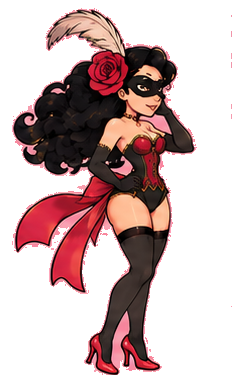
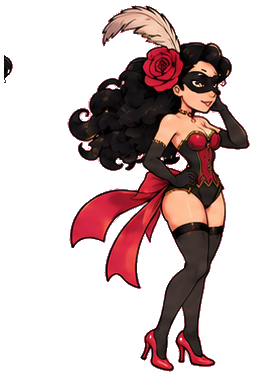
fix: re-crop scarlet idle, add up/down nav, sort viewer entities
- Re-crop scarlet_vale_idle with wider bounds, centered + bottom-aligned
- Crop balthazar_idle (8 frames) from balthazar_sheet_2
- Add hud/ folder with select screens, cover, logo as single-frame entities
- Sort viewer entities alphabetically within each label section
- Add ArrowUp/ArrowDown to navigate between animations in sidebar
- Regenerate both viewers

diff --git a/.squid-os/sprite-gen/petal-panic.viewer.html b/.squid-os/sprite-gen/petal-panic.viewer.html
@@ -53,11 +53,11 @@
       <input type="color" id="bg" value="#000000">
       <span id="bgval">#000000</span>
     </div>
-    <div id="hint">click an entity &middot; &#8722;/&#43; change speed &middot; space play/pause &middot; &#8592;/&#8594; step frame (paused)</div>
+    <div id="hint">click an entity &middot; &#8593;/&#8595; next/prev animation &middot; &#8722;/&#43; speed &middot; space play/pause &middot; &#8592;/&#8594; step frame (paused)</div>
   </div>
 </div>
 <script>
-const MANIFEST = {"labels": [{"name": "boss", "entities": [{"name": "overgrown_elephant_charge", "frames": ["../../panic-petal/assets/boss/overgrown_elephant_charge_f1.png", "../../panic-petal/assets/boss/overgrown_elephant_charge_f2.png", "../../panic-petal/assets/boss/overgrown_elephant_charge_f3.png", "../../panic-petal/assets/boss/overgrown_elephant_charge_f4.png", "../../panic-petal/assets/boss/overgrown_elephant_charge_f5.png"]}, {"name": "overgrown_elephant_stomp", "frames": ["../../panic-petal/assets/boss/overgrown_elephant_stomp_f1.png", "../../panic-petal/assets/boss/overgrown_elephant_stomp_f2.png", "../../panic-petal/assets/boss/overgrown_elephant_stomp_f3.png", "../../panic-petal/assets/boss/overgrown_elephant_stomp_f4.png", "../../panic-petal/assets/boss/overgrown_elephant_stomp_f5.png"]}, {"name": "overgrown_elephant_trunk_blast", "frames": ["../../panic-petal/assets/boss/overgrown_elephant_trunk_blast_f1.png", "../../panic-petal/assets/boss/overgrown_elephant_trunk_blast_f2.png", "../../panic-petal/assets/boss/overgrown_elephant_trunk_blast_f3.png", "../../panic-petal/assets/boss/overgrown_elephant_trunk_blast_f4.png", "../../panic-petal/assets/boss/overgrown_elephant_trunk_blast_f5.png"]}, {"name": "overgrown_elephant_death", "frames": ["../../panic-petal/assets/boss/overgrown_elephant_death_f1.png", "../../panic-petal/assets/boss/overgrown_elephant_death_f2.png", "../../panic-petal/assets/boss/overgrown_elephant_death_f3.png", "../../panic-petal/assets/boss/overgrown_elephant_death_f4.png", "../../panic-petal/assets/boss/overgrown_elephant_death_f5.png"]}]}, {"name": "enemies", "entities": [{"name": "jester_run", "frames": ["../../panic-petal/assets/enemies/jester_run_f1.png", "../../panic-petal/assets/enemies/jester_run_f2.png", "../../panic-petal/assets/enemies/jester_run_f3.png", "../../panic-petal/assets/enemies/jester_run_f4.png", "../../panic-petal/assets/enemies/jester_run_f5.png"]}, {"name": "jester_jump", "frames": ["../../panic-petal/assets/enemies/jester_jump_f1.png", "../../panic-petal/assets/enemies/jester_jump_f2.png", "../../panic-petal/assets/enemies/jester_jump_f3.png", "../../panic-petal/assets/enemies/jester_jump_f4.png", "../../panic-petal/assets/enemies/jester_jump_f5.png"]}, {"name": "jester_idle", "frames": ["../../panic-petal/assets/enemies/jester_idle_f1.png", "../../panic-petal/assets/enemies/jester_idle_f2.png", "../../panic-petal/assets/enemies/jester_idle_f3.png", "../../panic-petal/assets/enemies/jester_idle_f4.png", "../../panic-petal/assets/enemies/jester_idle_f5.png"]}, {"name": "jester_whip", "frames": ["../../panic-petal/assets/enemies/jester_whip_f1.png", "../../panic-petal/assets/enemies/jester_whip_f2.png", "../../panic-petal/assets/enemies/jester_whip_f3.png", "../../panic-petal/assets/enemies/jester_whip_f4.png", "../../panic-petal/assets/enemies/jester_whip_f5.png"]}, {"name": "jester_death", "frames": ["../../panic-petal/assets/enemies/jester_death_f1.png", "../../panic-petal/assets/enemies/jester_death_f2.png", "../../panic-petal/assets/enemies/jester_death_f3.png", "../../panic-petal/assets/enemies/jester_death_f4.png", "../../panic-petal/assets/enemies/jester_death_f5.png"]}, {"name": "jackolantern_roll", "frames": ["../../panic-petal/assets/enemies/jackolantern_roll_f1.png", "../../panic-petal/assets/enemies/jackolantern_roll_f2.png", "../../panic-petal/assets/enemies/jackolantern_roll_f3.png", "../../panic-petal/assets/enemies/jackolantern_roll_f4.png", "../../panic-petal/assets/enemies/jackolantern_roll_f5.png"]}, {"name": "jackolantern_launch", "frames": ["../../panic-petal/assets/enemies/jackolantern_launch_f1.png", "../../panic-petal/assets/enemies/jackolantern_launch_f2.png", "../../panic-petal/assets/enemies/jackolantern_launch_f3.png", "../../panic-petal/assets/enemies/jackolantern_launch_f4.png", "../../panic-petal/assets/enemies/jackolantern_launch_f5.png"]}, {"name": "jackolantern_explode", "frames": ["../../panic-petal/assets/enemies/jackolantern_explode_f1.png", "../../panic-petal/assets/enemies/jackolantern_explode_f2.png", "../../panic-petal/assets/enemies/jackolantern_explode_f3.png", "../../panic-petal/assets/enemies/jackolantern_explode_f4.png", "../../panic-petal/assets/enemies/jackolantern_explode_f5.png"]}, {"name": "vine_hound_run", "frames": ["../../panic-petal/assets/enemies/vine_hound_run_f1.png", "../../panic-petal/assets/enemies/vine_hound_run_f2.png", "../../panic-petal/assets/enemies/vine_hound_run_f3.png", "../../panic-petal/assets/enemies/vine_hound_run_f4.png", "../../panic-petal/assets/enemies/vine_hound_run_f5.png"]}, {"name": "vine_hound_attack", "frames": ["../../panic-petal/assets/enemies/vine_hound_attack_f1.png", "../../panic-petal/assets/enemies/vine_hound_attack_f2.png", "../../panic-petal/assets/enemies/vine_hound_attack_f3.png", "../../panic-petal/assets/enemies/vine_hound_attack_f4.png", "../../panic-petal/assets/enemies/vine_hound_attack_f5.png"]}, {"name": "vine_hound_death", "frames": ["../../panic-petal/assets/enemies/vine_hound_death_f1.png", "../../panic-petal/assets/enemies/vine_hound_death_f2.png", "../../panic-petal/assets/enemies/vine_hound_death_f3.png", "../../panic-petal/assets/enemies/vine_hound_death_f4.png", "../../panic-petal/assets/enemies/vine_hound_death_f5.png"]}, {"name": "boris_loon_fly", "frames": ["../../panic-petal/assets/enemies/boris_loon_fly_f1.png", "../../panic-petal/assets/enemies/boris_loon_fly_f2.png", "../../panic-petal/assets/enemies/boris_loon_fly_f3.png", "../../panic-petal/assets/enemies/boris_loon_fly_f4.png", "../../panic-petal/assets/enemies/boris_loon_fly_f5.png"]}, {"name": "boris_loon_attack", "frames": ["../../panic-petal/assets/enemies/boris_loon_attack_f1.png", "../../panic-petal/assets/enemies/boris_loon_attack_f2.png", "../../panic-petal/assets/enemies/boris_loon_attack_f3.png", "../../panic-petal/assets/enemies/boris_loon_attack_f4.png", "../../panic-petal/assets/enemies/boris_loon_attack_f5.png"]}, {"name": "boris_loon_death", "frames": ["../../panic-petal/assets/enemies/boris_loon_death_f1.png", "../../panic-petal/assets/enemies/boris_loon_death_f2.png", "../../panic-petal/assets/enemies/boris_loon_death_f3.png", "../../panic-petal/assets/enemies/boris_loon_death_f4.png", "../../panic-petal/assets/enemies/boris_loon_death_f5.png"]}, {"name": "boris_loon_baby_fly_1", "frames": ["../../panic-petal/assets/enemies/boris_loon_baby_fly_1_f1.png", "../../panic-petal/assets/enemies/boris_loon_baby_fly_1_f2.png", "../../panic-petal/assets/enemies/boris_loon_baby_fly_1_f3.png", "../../panic-petal/assets/enemies/boris_loon_baby_fly_1_f4.png", "../../panic-petal/assets/enemies/boris_loon_baby_fly_1_f5.png"]}, {"name": "boris_loon_baby_fly_2", "frames": ["../../panic-petal/assets/enemies/boris_loon_baby_fly_2_f1.png", "../../panic-petal/assets/enemies/boris_loon_baby_fly_2_f2.png", "../../panic-petal/assets/enemies/boris_loon_baby_fly_2_f3.png", "../../panic-petal/assets/enemies/boris_loon_baby_fly_2_f4.png", "../../panic-petal/assets/enemies/boris_loon_baby_fly_2_f5.png"]}, {"name": "boris_loon_baby_fly_3", "frames": ["../../panic-petal/assets/enemies/boris_loon_baby_fly_3_f1.png", "../../panic-petal/assets/enemies/boris_loon_baby_fly_3_f2.png", "../../panic-petal/assets/enemies/boris_loon_baby_fly_3_f3.png", "../../panic-petal/assets/enemies/boris_loon_baby_fly_3_f4.png", "../../panic-petal/assets/enemies/boris_loon_baby_fly_3_f5.png"]}, {"name": "violetta_marionetta_walk", "frames": ["../../panic-petal/assets/enemies/violetta_marionetta_walk_f1.png", "../../panic-petal/assets/enemies/violetta_marionetta_walk_f2.png", "../../panic-petal/assets/enemies/violetta_marionetta_walk_f3.png", "../../panic-petal/assets/enemies/violetta_marionetta_walk_f4.png", "../../panic-petal/assets/enemies/violetta_marionetta_walk_f5.png"]}, {"name": "violetta_marionetta_attack", "frames": ["../../panic-petal/assets/enemies/violetta_marionetta_attack_f1.png", "../../panic-petal/assets/enemies/violetta_marionetta_attack_f2.png", "../../panic-petal/assets/enemies/violetta_marionetta_attack_f3.png", "../../panic-petal/assets/enemies/violetta_marionetta_attack_f4.png", "../../panic-petal/assets/enemies/violetta_marionetta_attack_f5.png"]}, {"name": "violetta_marionetta_death", "frames": ["../../panic-petal/assets/enemies/violetta_marionetta_death_f1.png", "../../panic-petal/assets/enemies/violetta_marionetta_death_f2.png", "../../panic-petal/assets/enemies/violetta_marionetta_death_f3.png", "../../panic-petal/assets/enemies/violetta_marionetta_death_f4.png", "../../panic-petal/assets/enemies/violetta_marionetta_death_f5.png"]}]}, {"name": "heroes", "entities": [{"name": "scarlet_vale_run", "frames": ["../../panic-petal/assets/heroes/scarlet_vale_run_f1.png", "../../panic-petal/assets/heroes/scarlet_vale_run_f2.png", "../../panic-petal/assets/heroes/scarlet_vale_run_f3.png", "../../panic-petal/assets/heroes/scarlet_vale_run_f4.png", "../../panic-petal/assets/heroes/scarlet_vale_run_f5.png"]}, {"name": "scarlet_vale_jump", "frames": ["../../panic-petal/assets/heroes/scarlet_vale_jump_f1.png", "../../panic-petal/assets/heroes/scarlet_vale_jump_f2.png", "../../panic-petal/assets/heroes/scarlet_vale_jump_f3.png", "../../panic-petal/assets/heroes/scarlet_vale_jump_f4.png", "../../panic-petal/assets/heroes/scarlet_vale_jump_f5.png"]}, {"name": "scarlet_vale_attack", "frames": ["../../panic-petal/assets/heroes/scarlet_vale_attack_f1.png", "../../panic-petal/assets/heroes/scarlet_vale_attack_f2.png", "../../panic-petal/assets/heroes/scarlet_vale_attack_f3.png", "../../panic-petal/assets/heroes/scarlet_vale_attack_f4.png", "../../panic-petal/assets/heroes/scarlet_vale_attack_f5.png"]}, {"name": "balthazar_run", "frames": ["../../panic-petal/assets/heroes/balthazar_run_f1.png", "../../panic-petal/assets/heroes/balthazar_run_f2.png", "../../panic-petal/assets/heroes/balthazar_run_f3.png", "../../panic-petal/assets/heroes/balthazar_run_f4.png", "../../panic-petal/assets/heroes/balthazar_run_f5.png"]}, {"name": "balthazar_jump", "frames": ["../../panic-petal/assets/heroes/balthazar_jump_f1.png", "../../panic-petal/assets/heroes/balthazar_jump_f2.png", "../../panic-petal/assets/heroes/balthazar_jump_f3.png", "../../panic-petal/assets/heroes/balthazar_jump_f4.png", "../../panic-petal/assets/heroes/balthazar_jump_f5.png"]}, {"name": "balthazar_attack", "frames": ["../../panic-petal/assets/heroes/balthazar_attack_f1.png", "../../panic-petal/assets/heroes/balthazar_attack_f2.png", "../../panic-petal/assets/heroes/balthazar_attack_f3.png", "../../panic-petal/assets/heroes/balthazar_attack_f4.png", "../../panic-petal/assets/heroes/balthazar_attack_f5.png"]}, {"name": "scarlet_vale_idle", "frames": ["../../panic-petal/assets/heroes/scarlet_vale_idle_f1.png", "../../panic-petal/assets/heroes/scarlet_vale_idle_f2.png", "../../panic-petal/assets/heroes/scarlet_vale_idle_f3.png", "../../panic-petal/assets/heroes/scarlet_vale_idle_f4.png", "../../panic-petal/assets/heroes/scarlet_vale_idle_f5.png", "../../panic-petal/assets/heroes/scarlet_vale_idle_f6.png", "../../panic-petal/assets/heroes/scarlet_vale_idle_f7.png", "../../panic-petal/assets/heroes/scarlet_vale_idle_f8.png"]}, {"name": "balthazar_idle", "frames": ["../../panic-petal/assets/heroes/balthazar_idle_f1.png", "../../panic-petal/assets/heroes/balthazar_idle_f2.png", "../../panic-petal/assets/heroes/balthazar_idle_f3.png", "../../panic-petal/assets/heroes/balthazar_idle_f4.png", "../../panic-petal/assets/heroes/balthazar_idle_f5.png", "../../panic-petal/assets/heroes/balthazar_idle_f6.png", "../../panic-petal/assets/heroes/balthazar_idle_f7.png", "../../panic-petal/assets/heroes/balthazar_idle_f8.png"]}]}, {"name": "hud", "entities": [{"name": "select_balthazar_idle", "frames": ["../../panic-petal/assets/hud/select_balthazar_f1.png"]}, {"name": "select_none_idle", "frames": ["../../panic-petal/assets/hud/select_none_f1.png"]}, {"name": "select_scarlet_vale_idle", "frames": ["../../panic-petal/assets/hud/select_scarlet_vale_f1.png"]}, {"name": "cover_idle", "frames": ["../../panic-petal/assets/hud/cover_f1.png"]}, {"name": "logo_idle", "frames": ["../../panic-petal/assets/hud/logo_f1.png"]}]}]};   // {labels:[{name, entities:[{name, frames:["path",...]}]}], bg:"#hex"}
+const MANIFEST = {"labels": [{"name": "boss", "entities": [{"name": "overgrown_elephant_charge", "frames": ["../../panic-petal/assets/boss/overgrown_elephant_charge_f1.png", "../../panic-petal/assets/boss/overgrown_elephant_charge_f2.png", "../../panic-petal/assets/boss/overgrown_elephant_charge_f3.png", "../../panic-petal/assets/boss/overgrown_elephant_charge_f4.png", "../../panic-petal/assets/boss/overgrown_elephant_charge_f5.png"]}, {"name": "overgrown_elephant_death", "frames": ["../../panic-petal/assets/boss/overgrown_elephant_death_f1.png", "../../panic-petal/assets/boss/overgrown_elephant_death_f2.png", "../../panic-petal/assets/boss/overgrown_elephant_death_f3.png", "../../panic-petal/assets/boss/overgrown_elephant_death_f4.png", "../../panic-petal/assets/boss/overgrown_elephant_death_f5.png"]}, {"name": "overgrown_elephant_stomp", "frames": ["../../panic-petal/assets/boss/overgrown_elephant_stomp_f1.png", "../../panic-petal/assets/boss/overgrown_elephant_stomp_f2.png", "../../panic-petal/assets/boss/overgrown_elephant_stomp_f3.png", "../../panic-petal/assets/boss/overgrown_elephant_stomp_f4.png", "../../panic-petal/assets/boss/overgrown_elephant_stomp_f5.png"]}, {"name": "overgrown_elephant_trunk_blast", "frames": ["../../panic-petal/assets/boss/overgrown_elephant_trunk_blast_f1.png", "../../panic-petal/assets/boss/overgrown_elephant_trunk_blast_f2.png", "../../panic-petal/assets/boss/overgrown_elephant_trunk_blast_f3.png", "../../panic-petal/assets/boss/overgrown_elephant_trunk_blast_f4.png", "../../panic-petal/assets/boss/overgrown_elephant_trunk_blast_f5.png"]}]}, {"name": "enemies", "entities": [{"name": "boris_loon_attack", "frames": ["../../panic-petal/assets/enemies/boris_loon_attack_f1.png", "../../panic-petal/assets/enemies/boris_loon_attack_f2.png", "../../panic-petal/assets/enemies/boris_loon_attack_f3.png", "../../panic-petal/assets/enemies/boris_loon_attack_f4.png", "../../panic-petal/assets/enemies/boris_loon_attack_f5.png"]}, {"name": "boris_loon_baby_fly_1", "frames": ["../../panic-petal/assets/enemies/boris_loon_baby_fly_1_f1.png", "../../panic-petal/assets/enemies/boris_loon_baby_fly_1_f2.png", "../../panic-petal/assets/enemies/boris_loon_baby_fly_1_f3.png", "../../panic-petal/assets/enemies/boris_loon_baby_fly_1_f4.png", "../../panic-petal/assets/enemies/boris_loon_baby_fly_1_f5.png"]}, {"name": "boris_loon_baby_fly_2", "frames": ["../../panic-petal/assets/enemies/boris_loon_baby_fly_2_f1.png", "../../panic-petal/assets/enemies/boris_loon_baby_fly_2_f2.png", "../../panic-petal/assets/enemies/boris_loon_baby_fly_2_f3.png", "../../panic-petal/assets/enemies/boris_loon_baby_fly_2_f4.png", "../../panic-petal/assets/enemies/boris_loon_baby_fly_2_f5.png"]}, {"name": "boris_loon_baby_fly_3", "frames": ["../../panic-petal/assets/enemies/boris_loon_baby_fly_3_f1.png", "../../panic-petal/assets/enemies/boris_loon_baby_fly_3_f2.png", "../../panic-petal/assets/enemies/boris_loon_baby_fly_3_f3.png", "../../panic-petal/assets/enemies/boris_loon_baby_fly_3_f4.png", "../../panic-petal/assets/enemies/boris_loon_baby_fly_3_f5.png"]}, {"name": "boris_loon_death", "frames": ["../../panic-petal/assets/enemies/boris_loon_death_f1.png", "../../panic-petal/assets/enemies/boris_loon_death_f2.png", "../../panic-petal/assets/enemies/boris_loon_death_f3.png", "../../panic-petal/assets/enemies/boris_loon_death_f4.png", "../../panic-petal/assets/enemies/boris_loon_death_f5.png"]}, {"name": "boris_loon_fly", "frames": ["../../panic-petal/assets/enemies/boris_loon_fly_f1.png", "../../panic-petal/assets/enemies/boris_loon_fly_f2.png", "../../panic-petal/assets/enemies/boris_loon_fly_f3.png", "../../panic-petal/assets/enemies/boris_loon_fly_f4.png", "../../panic-petal/assets/enemies/boris_loon_fly_f5.png"]}, {"name": "jackolantern_explode", "frames": ["../../panic-petal/assets/enemies/jackolantern_explode_f1.png", "../../panic-petal/assets/enemies/jackolantern_explode_f2.png", "../../panic-petal/assets/enemies/jackolantern_explode_f3.png", "../../panic-petal/assets/enemies/jackolantern_explode_f4.png", "../../panic-petal/assets/enemies/jackolantern_explode_f5.png"]}, {"name": "jackolantern_launch", "frames": ["../../panic-petal/assets/enemies/jackolantern_launch_f1.png", "../../panic-petal/assets/enemies/jackolantern_launch_f2.png", "../../panic-petal/assets/enemies/jackolantern_launch_f3.png", "../../panic-petal/assets/enemies/jackolantern_launch_f4.png", "../../panic-petal/assets/enemies/jackolantern_launch_f5.png"]}, {"name": "jackolantern_roll", "frames": ["../../panic-petal/assets/enemies/jackolantern_roll_f1.png", "../../panic-petal/assets/enemies/jackolantern_roll_f2.png", "../../panic-petal/assets/enemies/jackolantern_roll_f3.png", "../../panic-petal/assets/enemies/jackolantern_roll_f4.png", "../../panic-petal/assets/enemies/jackolantern_roll_f5.png"]}, {"name": "jester_death", "frames": ["../../panic-petal/assets/enemies/jester_death_f1.png", "../../panic-petal/assets/enemies/jester_death_f2.png", "../../panic-petal/assets/enemies/jester_death_f3.png", "../../panic-petal/assets/enemies/jester_death_f4.png", "../../panic-petal/assets/enemies/jester_death_f5.png"]}, {"name": "jester_idle", "frames": ["../../panic-petal/assets/enemies/jester_idle_f1.png", "../../panic-petal/assets/enemies/jester_idle_f2.png", "../../panic-petal/assets/enemies/jester_idle_f3.png", "../../panic-petal/assets/enemies/jester_idle_f4.png", "../../panic-petal/assets/enemies/jester_idle_f5.png"]}, {"name": "jester_jump", "frames": ["../../panic-petal/assets/enemies/jester_jump_f1.png", "../../panic-petal/assets/enemies/jester_jump_f2.png", "../../panic-petal/assets/enemies/jester_jump_f3.png", "../../panic-petal/assets/enemies/jester_jump_f4.png", "../../panic-petal/assets/enemies/jester_jump_f5.png"]}, {"name": "jester_run", "frames": ["../../panic-petal/assets/enemies/jester_run_f1.png", "../../panic-petal/assets/enemies/jester_run_f2.png", "../../panic-petal/assets/enemies/jester_run_f3.png", "../../panic-petal/assets/enemies/jester_run_f4.png", "../../panic-petal/assets/enemies/jester_run_f5.png"]}, {"name": "jester_whip", "frames": ["../../panic-petal/assets/enemies/jester_whip_f1.png", "../../panic-petal/assets/enemies/jester_whip_f2.png", "../../panic-petal/assets/enemies/jester_whip_f3.png", "../../panic-petal/assets/enemies/jester_whip_f4.png", "../../panic-petal/assets/enemies/jester_whip_f5.png"]}, {"name": "vine_hound_attack", "frames": ["../../panic-petal/assets/enemies/vine_hound_attack_f1.png", "../../panic-petal/assets/enemies/vine_hound_attack_f2.png", "../../panic-petal/assets/enemies/vine_hound_attack_f3.png", "../../panic-petal/assets/enemies/vine_hound_attack_f4.png", "../../panic-petal/assets/enemies/vine_hound_attack_f5.png"]}, {"name": "vine_hound_death", "frames": ["../../panic-petal/assets/enemies/vine_hound_death_f1.png", "../../panic-petal/assets/enemies/vine_hound_death_f2.png", "../../panic-petal/assets/enemies/vine_hound_death_f3.png", "../../panic-petal/assets/enemies/vine_hound_death_f4.png", "../../panic-petal/assets/enemies/vine_hound_death_f5.png"]}, {"name": "vine_hound_run", "frames": ["../../panic-petal/assets/enemies/vine_hound_run_f1.png", "../../panic-petal/assets/enemies/vine_hound_run_f2.png", "../../panic-petal/assets/enemies/vine_hound_run_f3.png", "../../panic-petal/assets/enemies/vine_hound_run_f4.png", "../../panic-petal/assets/enemies/vine_hound_run_f5.png"]}, {"name": "violetta_marionetta_attack", "frames": ["../../panic-petal/assets/enemies/violetta_marionetta_attack_f1.png", "../../panic-petal/assets/enemies/violetta_marionetta_attack_f2.png", "../../panic-petal/assets/enemies/violetta_marionetta_attack_f3.png", "../../panic-petal/assets/enemies/violetta_marionetta_attack_f4.png", "../../panic-petal/assets/enemies/violetta_marionetta_attack_f5.png"]}, {"name": "violetta_marionetta_death", "frames": ["../../panic-petal/assets/enemies/violetta_marionetta_death_f1.png", "../../panic-petal/assets/enemies/violetta_marionetta_death_f2.png", "../../panic-petal/assets/enemies/violetta_marionetta_death_f3.png", "../../panic-petal/assets/enemies/violetta_marionetta_death_f4.png", "../../panic-petal/assets/enemies/violetta_marionetta_death_f5.png"]}, {"name": "violetta_marionetta_walk", "frames": ["../../panic-petal/assets/enemies/violetta_marionetta_walk_f1.png", "../../panic-petal/assets/enemies/violetta_marionetta_walk_f2.png", "../../panic-petal/assets/enemies/violetta_marionetta_walk_f3.png", "../../panic-petal/assets/enemies/violetta_marionetta_walk_f4.png", "../../panic-petal/assets/enemies/violetta_marionetta_walk_f5.png"]}]}, {"name": "heroes", "entities": [{"name": "balthazar_attack", "frames": ["../../panic-petal/assets/heroes/balthazar_attack_f1.png", "../../panic-petal/assets/heroes/balthazar_attack_f2.png", "../../panic-petal/assets/heroes/balthazar_attack_f3.png", "../../panic-petal/assets/heroes/balthazar_attack_f4.png", "../../panic-petal/assets/heroes/balthazar_attack_f5.png"]}, {"name": "balthazar_idle", "frames": ["../../panic-petal/assets/heroes/balthazar_idle_f1.png", "../../panic-petal/assets/heroes/balthazar_idle_f2.png", "../../panic-petal/assets/heroes/balthazar_idle_f3.png", "../../panic-petal/assets/heroes/balthazar_idle_f4.png", "../../panic-petal/assets/heroes/balthazar_idle_f5.png", "../../panic-petal/assets/heroes/balthazar_idle_f6.png", "../../panic-petal/assets/heroes/balthazar_idle_f7.png", "../../panic-petal/assets/heroes/balthazar_idle_f8.png"]}, {"name": "balthazar_jump", "frames": ["../../panic-petal/assets/heroes/balthazar_jump_f1.png", "../../panic-petal/assets/heroes/balthazar_jump_f2.png", "../../panic-petal/assets/heroes/balthazar_jump_f3.png", "../../panic-petal/assets/heroes/balthazar_jump_f4.png", "../../panic-petal/assets/heroes/balthazar_jump_f5.png"]}, {"name": "balthazar_run", "frames": ["../../panic-petal/assets/heroes/balthazar_run_f1.png", "../../panic-petal/assets/heroes/balthazar_run_f2.png", "../../panic-petal/assets/heroes/balthazar_run_f3.png", "../../panic-petal/assets/heroes/balthazar_run_f4.png", "../../panic-petal/assets/heroes/balthazar_run_f5.png"]}, {"name": "scarlet_vale_attack", "frames": ["../../panic-petal/assets/heroes/scarlet_vale_attack_f1.png", "../../panic-petal/assets/heroes/scarlet_vale_attack_f2.png", "../../panic-petal/assets/heroes/scarlet_vale_attack_f3.png", "../../panic-petal/assets/heroes/scarlet_vale_attack_f4.png", "../../panic-petal/assets/heroes/scarlet_vale_attack_f5.png"]}, {"name": "scarlet_vale_idle", "frames": ["../../panic-petal/assets/heroes/scarlet_vale_idle_f1.png", "../../panic-petal/assets/heroes/scarlet_vale_idle_f2.png", "../../panic-petal/assets/heroes/scarlet_vale_idle_f3.png", "../../panic-petal/assets/heroes/scarlet_vale_idle_f4.png", "../../panic-petal/assets/heroes/scarlet_vale_idle_f5.png", "../../panic-petal/assets/heroes/scarlet_vale_idle_f6.png", "../../panic-petal/assets/heroes/scarlet_vale_idle_f7.png", "../../panic-petal/assets/heroes/scarlet_vale_idle_f8.png"]}, {"name": "scarlet_vale_jump", "frames": ["../../panic-petal/assets/heroes/scarlet_vale_jump_f1.png", "../../panic-petal/assets/heroes/scarlet_vale_jump_f2.png", "../../panic-petal/assets/heroes/scarlet_vale_jump_f3.png", "../../panic-petal/assets/heroes/scarlet_vale_jump_f4.png", "../../panic-petal/assets/heroes/scarlet_vale_jump_f5.png"]}, {"name": "scarlet_vale_run", "frames": ["../../panic-petal/assets/heroes/scarlet_vale_run_f1.png", "../../panic-petal/assets/heroes/scarlet_vale_run_f2.png", "../../panic-petal/assets/heroes/scarlet_vale_run_f3.png", "../../panic-petal/assets/heroes/scarlet_vale_run_f4.png", "../../panic-petal/assets/heroes/scarlet_vale_run_f5.png"]}]}, {"name": "hud", "entities": [{"name": "cover_idle", "frames": ["../../panic-petal/assets/hud/cover_f1.png"]}, {"name": "logo_idle", "frames": ["../../panic-petal/assets/hud/logo_f1.png"]}, {"name": "select_balthazar_idle", "frames": ["../../panic-petal/assets/hud/select_balthazar_f1.png"]}, {"name": "select_none_idle", "frames": ["../../panic-petal/assets/hud/select_none_f1.png"]}, {"name": "select_scarlet_vale_idle", "frames": ["../../panic-petal/assets/hud/select_scarlet_vale_f1.png"]}]}]};   // {labels:[{name, entities:[{name, frames:["path",...]}]}], bg:"#hex"}
 const cv = document.getElementById('cv');
 const ctx = cv.getContext('2d');
 ctx.imageSmoothingEnabled = false;
@@ -75,6 +75,8 @@ let fps = 8;
 let playing = true;
 let lastT = 0;
 let acc = 0;
+let flatList = [];       // [{li, ei}] flattened entity list
+let flatIdx = -1;        // current position in flatList
 
 // Build the sidebar tree.
 MANIFEST.labels.forEach((lbl, li) => {
@@ -86,6 +88,7 @@ MANIFEST.labels.forEach((lbl, li) => {
     row.addEventListener('click', () => selectEntity(li, ei));
     en._el = row;
     tree.appendChild(row);
+    flatList.push({li, ei});
   });
 });
 
@@ -99,6 +102,7 @@ async function selectEntity(li, ei){
   const en = MANIFEST.labels[li].entities[ei];
   document.querySelectorAll('.ent').forEach(e=>e.classList.remove('on'));
   en._el.classList.add('on');
+  flatIdx = flatList.findIndex(f => f.li === li && f.ei === ei);
   const imgs = await loadFrames(en.frames);
   current = { name: en.name, frames: imgs.filter(Boolean), framePaths: en.frames };
   frameIdx = 0; acc = 0; playing = true;
@@ -153,6 +157,8 @@ bgInput.addEventListener('input', ()=>{ bgVal.textContent = bgInput.value; draw(
 window.addEventListener('keydown', (e)=>{
   if (e.code==='ArrowRight'){ e.preventDefault(); if(playing) setFps(fps+1); else { frameIdx=(frameIdx+1)%current.frames.length; draw(); } }
   else if (e.code==='ArrowLeft'){ e.preventDefault(); if(playing) setFps(fps-1); else { frameIdx=(frameIdx-1+current.frames.length)%current.frames.length; draw(); } }
+  else if (e.code==='ArrowUp'){ e.preventDefault(); if(flatIdx>0){ flatIdx--; const f=flatList[flatIdx]; selectEntity(f.li, f.ei); } }
+  else if (e.code==='ArrowDown'){ e.preventDefault(); if(flatIdx<flatList.length-1){ flatIdx++; const f=flatList[flatIdx]; selectEntity(f.li, f.ei); } }
   else if (e.code==='Minus'||e.code==='NumpadSubtract'){ e.preventDefault(); setFps(fps-1); }
   else if (e.code==='Equal'||e.code==='NumpadAdd'){ e.preventDefault(); setFps(fps+1); }
   else if (e.code==='Space'){ e.preventDefault(); playing=!playing; }

diff --git a/.squid-os/sprite-gen/abyss-qwen.viewer.html b/.squid-os/sprite-gen/abyss-qwen.viewer.html
@@ -53,11 +53,11 @@
       <input type="color" id="bg" value="#000000">
       <span id="bgval">#000000</span>
     </div>
-    <div id="hint">click an entity &middot; &#8722;/&#43; change speed &middot; space play/pause &middot; &#8592;/&#8594; step frame (paused)</div>
+    <div id="hint">click an entity &middot; &#8593;/&#8595; next/prev animation &middot; &#8722;/&#43; speed &middot; space play/pause &middot; &#8592;/&#8594; step frame (paused)</div>
   </div>
 </div>
 <script>
-const MANIFEST = {"labels": [{"name": "bosses", "entities": [{"name": "octopus_idle", "frames": ["../../abyss-qwen/assets/bosses/octopus_f1.png", "../../abyss-qwen/assets/bosses/octopus_f2.png", "../../abyss-qwen/assets/bosses/octopus_f3.png", "../../abyss-qwen/assets/bosses/octopus_f4.png"]}, {"name": "megalodon_idle", "frames": ["../../abyss-qwen/assets/bosses/megalodon_f1.png", "../../abyss-qwen/assets/bosses/megalodon_f2.png", "../../abyss-qwen/assets/bosses/megalodon_f3.png", "../../abyss-qwen/assets/bosses/megalodon_f4.png"]}, {"name": "kraken_idle", "frames": ["../../abyss-qwen/assets/bosses/kraken_f1.png", "../../abyss-qwen/assets/bosses/kraken_f2.png", "../../abyss-qwen/assets/bosses/kraken_f3.png", "../../abyss-qwen/assets/bosses/kraken_f4.png"]}]}, {"name": "enemies", "entities": [{"name": "pufferfish_idle", "frames": ["../../abyss-qwen/assets/enemies/pufferfish_f1.png", "../../abyss-qwen/assets/enemies/pufferfish_f2.png", "../../abyss-qwen/assets/enemies/pufferfish_f3.png", "../../abyss-qwen/assets/enemies/pufferfish_f4.png"]}, {"name": "mantis_crab_idle", "frames": ["../../abyss-qwen/assets/enemies/mantis_crab_f1.png", "../../abyss-qwen/assets/enemies/mantis_crab_f2.png", "../../abyss-qwen/assets/enemies/mantis_crab_f3.png", "../../abyss-qwen/assets/enemies/mantis_crab_f4.png"]}, {"name": "jellyfish_idle", "frames": ["../../abyss-qwen/assets/enemies/jellyfish_f1.png", "../../abyss-qwen/assets/enemies/jellyfish_f2.png", "../../abyss-qwen/assets/enemies/jellyfish_f3.png", "../../abyss-qwen/assets/enemies/jellyfish_f4.png"]}, {"name": "anglerfish_idle", "frames": ["../../abyss-qwen/assets/enemies/anglerfish_f1.png", "../../abyss-qwen/assets/enemies/anglerfish_f2.png", "../../abyss-qwen/assets/enemies/anglerfish_f3.png", "../../abyss-qwen/assets/enemies/anglerfish_f4.png"]}, {"name": "mech_shark_idle", "frames": ["../../abyss-qwen/assets/enemies/mech_shark_f1.png", "../../abyss-qwen/assets/enemies/mech_shark_f2.png", "../../abyss-qwen/assets/enemies/mech_shark_f3.png", "../../abyss-qwen/assets/enemies/mech_shark_f4.png"]}, {"name": "sea_dragon_idle", "frames": ["../../abyss-qwen/assets/enemies/sea_dragon_f1.png", "../../abyss-qwen/assets/enemies/sea_dragon_f2.png", "../../abyss-qwen/assets/enemies/sea_dragon_f3.png", "../../abyss-qwen/assets/enemies/sea_dragon_f4.png"]}]}, {"name": "hud", "entities": [{"name": "splash", "frames": ["../../abyss-qwen/assets/hud/splash_f1.png"]}, {"name": "background", "frames": ["../../abyss-qwen/assets/hud/background_f1.png"]}]}, {"name": "player", "entities": [{"name": "manta_ray_idle", "frames": ["../../abyss-qwen/assets/player/manta_ray_f1.png", "../../abyss-qwen/assets/player/manta_ray_f2.png", "../../abyss-qwen/assets/player/manta_ray_f3.png", "../../abyss-qwen/assets/player/manta_ray_f4.png"]}]}, {"name": "powerups", "entities": [{"name": "shield_idle", "frames": ["../../abyss-qwen/assets/powerups/shield_f1.png", "../../abyss-qwen/assets/powerups/shield_f2.png", "../../abyss-qwen/assets/powerups/shield_f3.png", "../../abyss-qwen/assets/powerups/shield_f4.png"]}, {"name": "triple_shot_idle", "frames": ["../../abyss-qwen/assets/powerups/triple_shot_f1.png", "../../abyss-qwen/assets/powerups/triple_shot_f2.png", "../../abyss-qwen/assets/powerups/triple_shot_f3.png", "../../abyss-qwen/assets/powerups/triple_shot_f4.png"]}, {"name": "slow_mo_idle", "frames": ["../../abyss-qwen/assets/powerups/slow_mo_f1.png", "../../abyss-qwen/assets/powerups/slow_mo_f2.png", "../../abyss-qwen/assets/powerups/slow_mo_f3.png", "../../abyss-qwen/assets/powerups/slow_mo_f4.png"]}, {"name": "bomb_idle", "frames": ["../../abyss-qwen/assets/powerups/bomb_f1.png", "../../abyss-qwen/assets/powerups/bomb_f2.png", "../../abyss-qwen/assets/powerups/bomb_f3.png", "../../abyss-qwen/assets/powerups/bomb_f4.png"]}]}]};   // {labels:[{name, entities:[{name, frames:["path",...]}]}], bg:"#hex"}
+const MANIFEST = {"labels": [{"name": "bosses", "entities": [{"name": "kraken_idle", "frames": ["../../abyss-qwen/assets/bosses/kraken_f1.png", "../../abyss-qwen/assets/bosses/kraken_f2.png", "../../abyss-qwen/assets/bosses/kraken_f3.png", "../../abyss-qwen/assets/bosses/kraken_f4.png"]}, {"name": "megalodon_idle", "frames": ["../../abyss-qwen/assets/bosses/megalodon_f1.png", "../../abyss-qwen/assets/bosses/megalodon_f2.png", "../../abyss-qwen/assets/bosses/megalodon_f3.png", "../../abyss-qwen/assets/bosses/megalodon_f4.png"]}, {"name": "octopus_idle", "frames": ["../../abyss-qwen/assets/bosses/octopus_f1.png", "../../abyss-qwen/assets/bosses/octopus_f2.png", "../../abyss-qwen/assets/bosses/octopus_f3.png", "../../abyss-qwen/assets/bosses/octopus_f4.png"]}]}, {"name": "enemies", "entities": [{"name": "anglerfish_idle", "frames": ["../../abyss-qwen/assets/enemies/anglerfish_f1.png", "../../abyss-qwen/assets/enemies/anglerfish_f2.png", "../../abyss-qwen/assets/enemies/anglerfish_f3.png", "../../abyss-qwen/assets/enemies/anglerfish_f4.png"]}, {"name": "jellyfish_idle", "frames": ["../../abyss-qwen/assets/enemies/jellyfish_f1.png", "../../abyss-qwen/assets/enemies/jellyfish_f2.png", "../../abyss-qwen/assets/enemies/jellyfish_f3.png", "../../abyss-qwen/assets/enemies/jellyfish_f4.png"]}, {"name": "mantis_crab_idle", "frames": ["../../abyss-qwen/assets/enemies/mantis_crab_f1.png", "../../abyss-qwen/assets/enemies/mantis_crab_f2.png", "../../abyss-qwen/assets/enemies/mantis_crab_f3.png", "../../abyss-qwen/assets/enemies/mantis_crab_f4.png"]}, {"name": "mech_shark_idle", "frames": ["../../abyss-qwen/assets/enemies/mech_shark_f1.png", "../../abyss-qwen/assets/enemies/mech_shark_f2.png", "../../abyss-qwen/assets/enemies/mech_shark_f3.png", "../../abyss-qwen/assets/enemies/mech_shark_f4.png"]}, {"name": "pufferfish_idle", "frames": ["../../abyss-qwen/assets/enemies/pufferfish_f1.png", "../../abyss-qwen/assets/enemies/pufferfish_f2.png", "../../abyss-qwen/assets/enemies/pufferfish_f3.png", "../../abyss-qwen/assets/enemies/pufferfish_f4.png"]}, {"name": "sea_dragon_idle", "frames": ["../../abyss-qwen/assets/enemies/sea_dragon_f1.png", "../../abyss-qwen/assets/enemies/sea_dragon_f2.png", "../../abyss-qwen/assets/enemies/sea_dragon_f3.png", "../../abyss-qwen/assets/enemies/sea_dragon_f4.png"]}]}, {"name": "hud", "entities": [{"name": "background", "frames": ["../../abyss-qwen/assets/hud/background_f1.png"]}, {"name": "splash", "frames": ["../../abyss-qwen/assets/hud/splash_f1.png"]}]}, {"name": "player", "entities": [{"name": "manta_ray_idle", "frames": ["../../abyss-qwen/assets/player/manta_ray_f1.png", "../../abyss-qwen/assets/player/manta_ray_f2.png", "../../abyss-qwen/assets/player/manta_ray_f3.png", "../../abyss-qwen/assets/player/manta_ray_f4.png"]}]}, {"name": "powerups", "entities": [{"name": "bomb_idle", "frames": ["../../abyss-qwen/assets/powerups/bomb_f1.png", "../../abyss-qwen/assets/powerups/bomb_f2.png", "../../abyss-qwen/assets/powerups/bomb_f3.png", "../../abyss-qwen/assets/powerups/bomb_f4.png"]}, {"name": "shield_idle", "frames": ["../../abyss-qwen/assets/powerups/shield_f1.png", "../../abyss-qwen/assets/powerups/shield_f2.png", "../../abyss-qwen/assets/powerups/shield_f3.png", "../../abyss-qwen/assets/powerups/shield_f4.png"]}, {"name": "slow_mo_idle", "frames": ["../../abyss-qwen/assets/powerups/slow_mo_f1.png", "../../abyss-qwen/assets/powerups/slow_mo_f2.png", "../../abyss-qwen/assets/powerups/slow_mo_f3.png", "../../abyss-qwen/assets/powerups/slow_mo_f4.png"]}, {"name": "triple_shot_idle", "frames": ["../../abyss-qwen/assets/powerups/triple_shot_f1.png", "../../abyss-qwen/assets/powerups/triple_shot_f2.png", "../../abyss-qwen/assets/powerups/triple_shot_f3.png", "../../abyss-qwen/assets/powerups/triple_shot_f4.png"]}]}]};   // {labels:[{name, entities:[{name, frames:["path",...]}]}], bg:"#hex"}
 const cv = document.getElementById('cv');
 const ctx = cv.getContext('2d');
 ctx.imageSmoothingEnabled = false;
@@ -75,6 +75,8 @@ let fps = 8;
 let playing = true;
 let lastT = 0;
 let acc = 0;
+let flatList = [];       // [{li, ei}] flattened entity list
+let flatIdx = -1;        // current position in flatList
 
 // Build the sidebar tree.
 MANIFEST.labels.forEach((lbl, li) => {
@@ -86,6 +88,7 @@ MANIFEST.labels.forEach((lbl, li) => {
     row.addEventListener('click', () => selectEntity(li, ei));
     en._el = row;
     tree.appendChild(row);
+    flatList.push({li, ei});
   });
 });
 
@@ -99,6 +102,7 @@ async function selectEntity(li, ei){
   const en = MANIFEST.labels[li].entities[ei];
   document.querySelectorAll('.ent').forEach(e=>e.classList.remove('on'));
   en._el.classList.add('on');
+  flatIdx = flatList.findIndex(f => f.li === li && f.ei === ei);
   const imgs = await loadFrames(en.frames);
   current = { name: en.name, frames: imgs.filter(Boolean), framePaths: en.frames };
   frameIdx = 0; acc = 0; playing = true;
@@ -153,6 +157,8 @@ bgInput.addEventListener('input', ()=>{ bgVal.textContent = bgInput.value; draw(
 window.addEventListener('keydown', (e)=>{
   if (e.code==='ArrowRight'){ e.preventDefault(); if(playing) setFps(fps+1); else { frameIdx=(frameIdx+1)%current.frames.length; draw(); } }
   else if (e.code==='ArrowLeft'){ e.preventDefault(); if(playing) setFps(fps-1); else { frameIdx=(frameIdx-1+current.frames.length)%current.frames.length; draw(); } }
+  else if (e.code==='ArrowUp'){ e.preventDefault(); if(flatIdx>0){ flatIdx--; const f=flatList[flatIdx]; selectEntity(f.li, f.ei); } }
+  else if (e.code==='ArrowDown'){ e.preventDefault(); if(flatIdx<flatList.length-1){ flatIdx++; const f=flatList[flatIdx]; selectEntity(f.li, f.ei); } }
   else if (e.code==='Minus'||e.code==='NumpadSubtract'){ e.preventDefault(); setFps(fps-1); }
   else if (e.code==='Equal'||e.code==='NumpadAdd'){ e.preventDefault(); setFps(fps+1); }
   else if (e.code==='Space'){ e.preventDefault(); playing=!playing; }

diff --git a/.squid-os/skills/sprite-crop/scripts/crop_sprites.py b/.squid-os/skills/sprite-crop/scripts/crop_sprites.py
@@ -549,7 +549,7 @@ VIEWER_TMPL = """<!DOCTYPE html>
       <input type="color" id="bg" value="__BGCOLOR__">
       <span id="bgval">__BGCOLOR__</span>
     </div>
-    <div id="hint">click an entity &middot; &#8722;/&#43; change speed &middot; space play/pause &middot; &#8592;/&#8594; step frame (paused)</div>
+    <div id="hint">click an entity &middot; &#8593;/&#8595; next/prev animation &middot; &#8722;/&#43; speed &middot; space play/pause &middot; &#8592;/&#8594; step frame (paused)</div>
   </div>
 </div>
 <script>
@@ -571,6 +571,8 @@ let fps = 8;
 let playing = true;
 let lastT = 0;
 let acc = 0;
+let flatList = [];       // [{li, ei}] flattened entity list
+let flatIdx = -1;        // current position in flatList
 
 // Build the sidebar tree.
 MANIFEST.labels.forEach((lbl, li) => {
@@ -582,6 +584,7 @@ MANIFEST.labels.forEach((lbl, li) => {
     row.addEventListener('click', () => selectEntity(li, ei));
     en._el = row;
     tree.appendChild(row);
+    flatList.push({li, ei});
   });
 });
 
@@ -595,6 +598,7 @@ async function selectEntity(li, ei){
   const en = MANIFEST.labels[li].entities[ei];
   document.querySelectorAll('.ent').forEach(e=>e.classList.remove('on'));
   en._el.classList.add('on');
+  flatIdx = flatList.findIndex(f => f.li === li && f.ei === ei);
   const imgs = await loadFrames(en.frames);
   current = { name: en.name, frames: imgs.filter(Boolean), framePaths: en.frames };
   frameIdx = 0; acc = 0; playing = true;
@@ -649,6 +653,8 @@ bgInput.addEventListener('input', ()=>{ bgVal.textContent = bgInput.value; draw(
 window.addEventListener('keydown', (e)=>{
   if (e.code==='ArrowRight'){ e.preventDefault(); if(playing) setFps(fps+1); else { frameIdx=(frameIdx+1)%current.frames.length; draw(); } }
   else if (e.code==='ArrowLeft'){ e.preventDefault(); if(playing) setFps(fps-1); else { frameIdx=(frameIdx-1+current.frames.length)%current.frames.length; draw(); } }
+  else if (e.code==='ArrowUp'){ e.preventDefault(); if(flatIdx>0){ flatIdx--; const f=flatList[flatIdx]; selectEntity(f.li, f.ei); } }
+  else if (e.code==='ArrowDown'){ e.preventDefault(); if(flatIdx<flatList.length-1){ flatIdx++; const f=flatList[flatIdx]; selectEntity(f.li, f.ei); } }
   else if (e.code==='Minus'||e.code==='NumpadSubtract'){ e.preventDefault(); setFps(fps-1); }
   else if (e.code==='Equal'||e.code==='NumpadAdd'){ e.preventDefault(); setFps(fps+1); }
   else if (e.code==='Space'){ e.preventDefault(); playing=!playing; }
@@ -705,6 +711,7 @@ def build_manifest(assets_dir, project, prefix="", state_file=None):
                         if frames:
                             full_frames = [prefix + os.path.join(label_name, fn) for fn in frames]
                             entities.append({"name": ent_name, "frames": [p.replace(os.sep, "/") for p in full_frames]})
+                entities.sort(key=lambda e: e["name"])
                 if entities:
                     labels.append({"name": label_name, "entities": entities})
             
